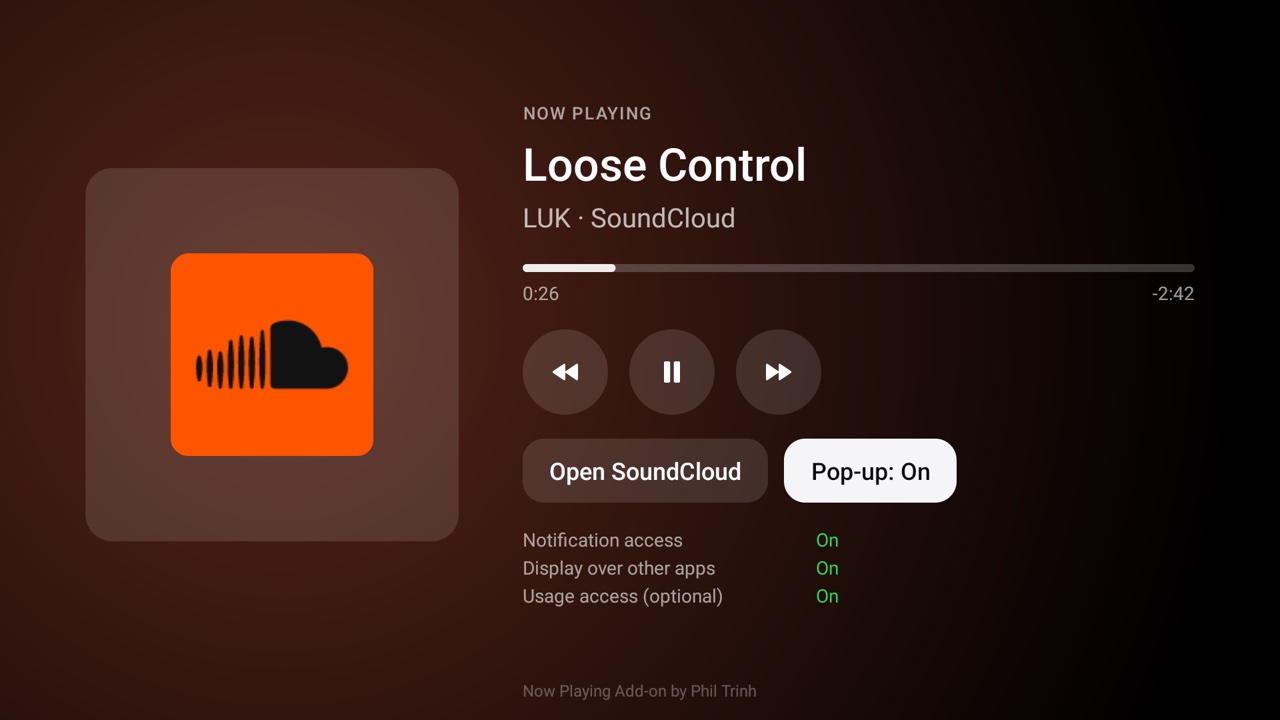
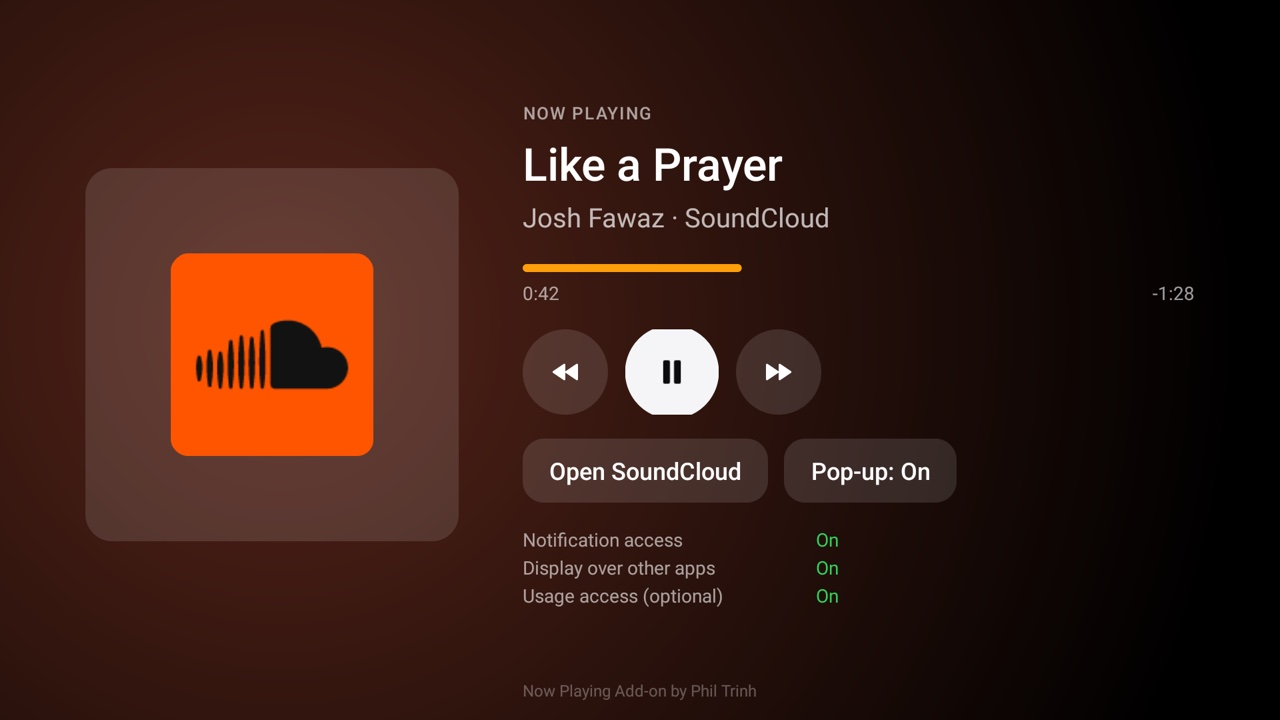
Now Playing add-on: orange progress on a transparent track, as on the launcher fork's card, and the progress on the pop-up
The pop-up's line moves while it is up and is left out for a live stream. screenshot.jpg retaken with the
orange line (Sony BRAVIA 4K AE2).

diff --git a/addons/now-playing/app/src/main/java/io/github/ptrinh/nowplaying/Pill.java b/addons/now-playing/app/src/main/java/io/github/ptrinh/nowplaying/Pill.java
@@ -33,8 +33,19 @@ final class Pill {
     private final WindowManager wm;
     private final float d;
     private View view;
+    private Sessions.Track track;
+    private MainActivity.Bar bar;
 
     private final Runnable hide = this::hide;
+    private final Runnable tick = new Runnable() {
+        @Override
+        public void run() {
+            if (view == null || track == null) return;
+            float p = NowPlaying.progress(track.now(), track.duration);
+            bar.set(p);
+            if (p >= 0) handler.postDelayed(this, 250);
+        }
+    };
 
     Pill(Context ctx, Handler handler) {
         this.ctx = ctx;
@@ -94,6 +105,13 @@ final class Pill {
         title.setTypeface(Typeface.create("sans-serif-medium", Typeface.NORMAL));
         lines.addView(title);
         if (!t.subtitle.isEmpty()) lines.addView(text(t.subtitle, 14, 0xB3FFFFFF));
+        // The progress under the lines, moving while the pill is up; none for a live stream.
+        bar = new MainActivity.Bar(ctx);
+        LinearLayout.LayoutParams bp = new LinearLayout.LayoutParams(LinearLayout.LayoutParams.MATCH_PARENT,
+                Math.max(2, Math.round(3 * d)));
+        bp.topMargin = (int) (8 * d);
+        lines.addView(bar, bp);
+        if (NowPlaying.progress(t.now(), t.duration) < 0) bar.setVisibility(View.GONE);
         LinearLayout.LayoutParams lp = new LinearLayout.LayoutParams(LinearLayout.LayoutParams.WRAP_CONTENT,
                 LinearLayout.LayoutParams.WRAP_CONTENT);
         lp.leftMargin = (int) (16 * d);
@@ -115,6 +133,8 @@ final class Pill {
             return false;   // the overlay permission went away between the check and now
         }
         view = pill;
+        track = t;
+        tick.run();
         pill.setAlpha(0f);
         pill.setTranslationY(-16 * d);
         pill.animate().alpha(1f).translationY(0f).setDuration(260).start();
@@ -133,6 +153,8 @@ final class Pill {
 
     void removeNow() {
         handler.removeCallbacks(hide);
+        handler.removeCallbacks(tick);
+        track = null;
         View v = view;
         view = null;
         if (v != null) {

diff --git a/addons/now-playing/app/src/main/java/io/github/ptrinh/nowplaying/MainActivity.java b/addons/now-playing/app/src/main/java/io/github/ptrinh/nowplaying/MainActivity.java
@@ -462,7 +462,11 @@ public class MainActivity extends Activity {
         return lp;
     }
 
-    /** The progress line: a dim track and a white fill with round ends, hidden for live streams. */
+    /**
+     * The progress line: an orange fill with round ends growing from the left on a transparent track, as
+     * on the launcher fork's card, so it reads on the dark screen and over a light picture behind the
+     * pop-up; nothing for live streams.
+     */
     static final class Bar extends View {
         private final Paint back = new Paint(Paint.ANTI_ALIAS_FLAG);
         private final Paint fill = new Paint(Paint.ANTI_ALIAS_FLAG);
@@ -471,8 +475,8 @@ public class MainActivity extends Activity {
 
         Bar(android.content.Context ctx) {
             super(ctx);
-            back.setColor(0x33FFFFFF);
-            fill.setColor(0xE6FFFFFF);
+            back.setColor(0x00000000);   // transparent: only the played part shows
+            fill.setColor(0xFFFF9F0A);
         }
 
         void set(float progress) {

diff --git a/addons/now-playing/README.md b/addons/now-playing/README.md
@@ -19,9 +19,9 @@ pop-up, with no change to the launcher.
 
 | Where | What |
 |---|---|
-| **The card screen** | The artwork (or the app's icon when the app sends none) with a glow in its colour, NOW PLAYING or PAUSED, the title, "artist · app", a progress line with the time gone and the time left (LIVE for a stream with no length), and three round buttons: Previous, Play/Pause, Next. **Open *app*** goes to the playing app's own player. **Pop-up: On/Off** switches the pop-up. Three lines at the bottom say what install.sh granted. |
+| **The card screen** | The artwork (or the app's icon when the app sends none) with a glow in its colour, NOW PLAYING or PAUSED, the title, "artist · app", an orange progress line with the time gone and the time left (LIVE for a stream with no length), and three round buttons: Previous, Play/Pause, Next. **Open *app*** goes to the playing app's own player. **Pop-up: On/Off** switches the pop-up. Three lines at the bottom say what install.sh granted. |
 | **The remote** | On the card screen, OK on a button, and the remote's own play/pause, next and previous keys act on the track shown. Everywhere else the media keys go to the playing app as Android always sends them; the add-on doesn't touch them. |
-| **The pop-up** | A glass pill with the artwork, NOW PLAYING, the title and "artist · app", over whatever is on screen, for six seconds when a new track starts playing. Not when you pause and play again, not while the card screen is open, not with the screen off, and (with usage access) not while the music app itself is on screen. It never takes focus or touches: the remote keeps working in the app underneath. |
+| **The pop-up** | A glass pill with the artwork, NOW PLAYING, the title, "artist · app" and the orange progress line moving, over whatever is on screen, for six seconds when a new track starts playing. Not when you pause and play again, not while the card screen is open, not with the screen off, and (with usage access) not while the music app itself is on screen. It never takes focus or touches: the remote keeps working in the app underneath. |
 
 Which track: Android's media sessions, most recently active first. The first one playing wins, else the first
 one paused; with none, the card says Nothing playing.
@@ -92,9 +92,9 @@ Sony BRAVIA 4K AE2 (Google TV 14), with SoundCloud playing in the background, on
 
 - The three grants (notification access, overlay, usage access) show On on the card screen.
 - The card screen shows the title, "artist · app", the app's icon on a glass tile when the app sends no
-  artwork, and the progress with the time gone and left.
+  artwork, and the orange progress with the time gone and left.
 - The remote's play/pause key pauses and plays (PLAYING → PAUSED → PLAYING), and next skips.
-- From Home, a new track pops up in the top right corner and is gone after six seconds; the remote keeps
+- From Home, a new track pops up in the top right corner with its progress and is gone after six seconds; the remote keeps
   working on Home underneath.
 - Nothing playing (YouTube drops its session once it is in the background): the card says Nothing playing.
 
